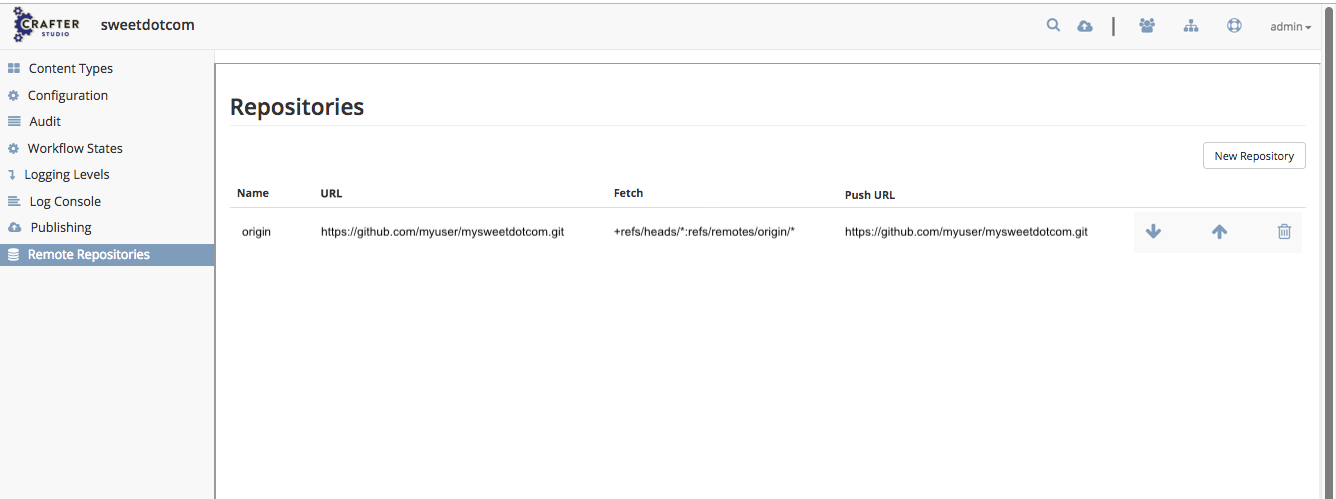
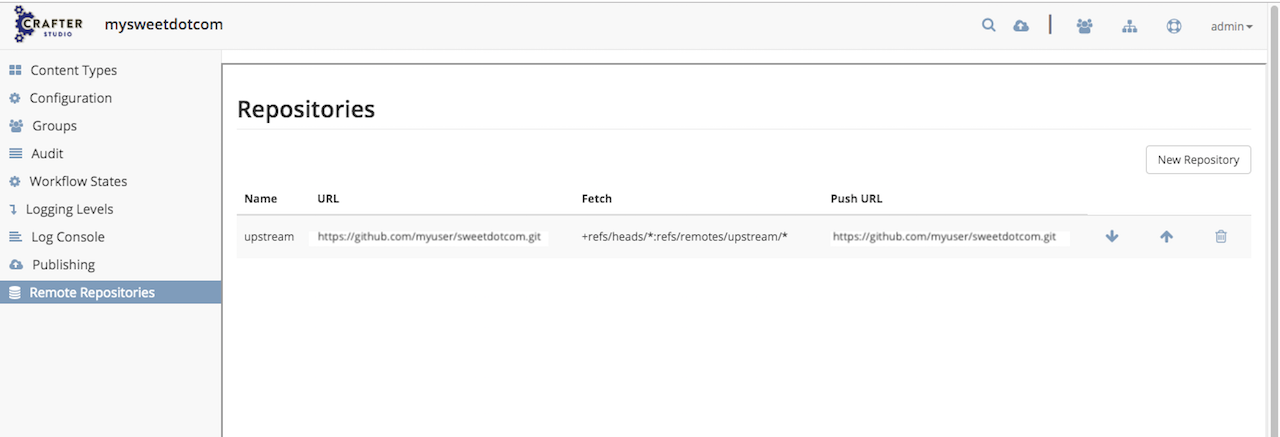
Add screens and text for Site Config in 3.0

diff --git a/source/site-administrators/navigating-site-config.rst b/source/site-administrators/navigating-site-config.rst
@@ -1,0 +1,142 @@
+.. index:: Navigating Site Config
+
+.. _navigating-site-config:
+
+======================
+Navigating Site Config
+======================
+
+In this section, we discuss the available modules in the |siteConfig| **Sidebar** from any of the available out-of-the-box blueprints.  The modules available in the Site Config Sidebar can be configured by following :ref:`site-config-tools`
+
+To get to |siteConfig|, click on **Sidebar** at the top left of your browser, if it's not yet open.
+
+.. image:: /_static/images/site-admin/open-sidebar.png
+    :alt: Site Admin - Open Sidebar
+    :align: center
+    :width: 45%
+
+Once the **Sidebar** is open, click on |siteConfig|
+
+.. image:: /_static/images/site-admin/open-site-config.png
+    :alt: Site Admin - Click on Site Config
+    :align: center
+
+Here are the modules you can access from |siteConfig|
+
+.. image:: /_static/images/site-admin/site-config-menu.png
+    :alt: Site Admin - Site Config Modules
+    :align: center
+
+-------------
+Content Types
+-------------
+Content Types contains the following:
+
+* Model: The content pieces that will be captured from the content authors for the page or component
+* View: The view template that will render the content, typically to HTML markup
+* Controller: The controller that handles the incoming request for the page or component
+
+The Content Types module under **Site Config** allows the user to view existing content types and to create new content types
+
+.. image:: /_static/images/site-admin/site-config-content-types.png
+    :alt: Site Admin - Site Config Content Types
+    :align: center
+
+For more information on content modeling and content types, see :ref:`content-modeling` in the Developer section
+
+-------------
+Configuration
+-------------
+
+Configuration allows the user to configure the different settings in Crafter CMS for the site.
+
+.. image:: /_static/images/site-admin/site-config-configuration.png
+    :alt: Site Admin - Site Config Configuration
+    :align: center
+
+For more information on what settings can be configured, see :ref:`configuration`
+
+------
+Groups
+------
+
+Groups allows the user to administrate (add/remove users to a group, add/remove group, etc. ), the groups in the site created on Crafter CMS.
+
+.. image:: /_static/images/site-admin/site-config-groups.png
+    :alt: Site Admin - Site Config Groups
+    :align: center
+
+For more information on groups see :ref:`groups-management`
+
+-----
+Audit
+-----
+
+Audit logs displays the date, time, user and action performed to content in the site:
+
+.. image:: /_static/images/site-admin/site-config-audit.png
+    :alt: Site Admin - Site Config Audit
+    :align: center
+
+See :ref:`studio-logging` for some more information on viewing logs.
+
+---------------
+Workflow States
+---------------
+
+Workflow States allows the user to manually set the workflow state of every file in the site.
+
+.. image:: /_static/images/site-admin/site-config-workflow-states.jpg
+    :alt: Site Admin - Site Config Workflow States
+    :align: center
+
+For more details on manually setting workflow states, see :ref:`setting-workflow-states`
+
+--------------
+Logging Levels
+--------------
+
+Logging Levels allows the user to temporarily change the logging levels for specific classes in Crafter CMS
+
+.. image:: /_static/images/site-admin/site-config-logging-levels.png
+    :alt: Site Admin - Site Config Logging Levels
+    :align: center
+
+See :ref:`override-logging-levels` and :ref:`studio-log-console` for more information on logging levels
+
+-----------
+Log Console
+-----------
+
+The **Log Console** allows the user to view messages depending on what log levels and what Java packages have been set for tracking.
+
+.. image:: /_static/images/site-admin/site-config-log-console.png
+    :alt: Site Admin - Site Config Log Console
+    :align: center
+
+See :ref:`studio-log-console` for some more information on viewing logs.
+
+----------
+Publishing
+----------
+
+The **Publishing** module under **Site Config** allows the user to view the publishing status, perform a bulk publish or to publish content using commit ID(s)
+
+.. image:: /_static/images/site-admin/site-config-publishing.png
+    :alt: Site Admin - Site Config Publishing
+    :align: center
+
+For more information on Publishing, see :ref:`publishing-and-status`
+
+-------------------
+Remote Repositories
+-------------------
+
+The **Remote Repositories** under **Site Config** allows the user to view remote repositories linked to the site and options to pull and push to the listed remote repositories.  It also allows the user to add a remote repository to the site.
+
+.. image:: /_static/images/site-admin/site-config-remote-repositories.png
+    :alt: Site Admin - Site Config Remote Repositories
+    :align: center
+
+For more information on Remote Repositories under |siteConfig|, see :ref:`remote-repositories`
+

diff --git a/source/site-administrators/setting-workflow-states.rst b/source/site-administrators/setting-workflow-states.rst
@@ -1,0 +1,61 @@
+:orphan:
+
+.. document does not appear in any toctree, this file is referenced
+   use :orphan: File-wide metadata option to get rid of WARNING: document isn't included in any toctree for now
+
+
+.. index:: Setting Workflow States
+
+.. _setting-workflow-states:
+
+=======================
+Setting Workflow States
+=======================
+
+There are times when a file/item in your site gets in a state that you would want to manually correct.  Workflow States allows the user to manually set the workflow state of every file in the site.
+
+To manually set the workflow state of a file in your site, find the file/s you'd like to change the workflow state and put a checkmark on the box next to it.  Towards the top of your browser, right next to your site name, click on **Set State**
+
+.. image:: /_static/images/site-admin/site-config-workflow-states.jpg
+    :alt: Site Admin - Site Config Set Workflow States
+    :align: center
+
+A dialog will launch prompting you to select the state you would like to set your selection to, by clicking on the dropdown box
+
+.. image:: /_static/images/site-admin/site-config-select-state-dialog.png
+    :alt: Site Admin - Site Config Select Workflow State Dialog
+    :align: center
+
+Select the desired state from the dropdown box and click on the **Set States** button
+
+.. image:: /_static/images/site-admin/site-config-avail-workflow-state.png
+    :alt: Site Admin - Site Config Available Workflow States
+    :align: center
+
+Here are the available workflow states:
+
+    * NEW_UNPUBLISHED_LOCKED: "New Unpublished Locked"
+    * NEW_UNPUBLISHED_UNLOCKED: "New Unpublished Unlocked"
+    * NEW_SUBMITTED_WITH_WF_SCHEDULED: "New Submitted with Workflow Scheduled"
+    * NEW_SUBMITTED_WITH_WF_SCHEDULED_LOCKED: "New Submitted with Workflow Scheduled Locked"
+    * NEW_SUBMITTED_WITH_WF_UNSCHEDULED: "New Submitted with Workflow Unscheduled"
+    * NEW_SUBMITTED_WITH_WF_UNSCHEDULED_LOCKED: "New Submitted with Workflow Unscheduled Locked"
+    * NEW_SUBMITTED_NO_WF_SCHEDULED: "New Submitted without Workflow Scheduled"
+    * NEW_SUBMITTED_NO_WF_SCHEDULED_LOCKED: "New Submitted without Workflow Scheduled Locked"
+    * NEW_SUBMITTED_NO_WF_UNSCHEDULED: "New Submitted without Workflow Unscheduled"
+    * NEW_PUBLISHING_FAILED: "New Publishing Failed"
+    * NEW_DELETED: "New Deleted"
+    * EXISTING_UNEDITED_LOCKED: "Existing Unedited Locked"
+    * EXISTING_UNEDITED_UNLOCKED: "Existing Unedited Unlocked"
+    * EXISTING_EDITED_LOCKED: "Existing Edited Locked"
+    * EXISTING_EDITED_UNLOCKED: "Existing Edited Unlocked"
+    * EXISTING_SUBMITTED_WITH_WF_SCHEDULED: "Existing Submitted with Workflow Scheduled"
+    * EXISTING_SUBMITTED_WITH_WF_SCHEDULED_LOCKED: "Existing Submitted with Workflow Scheduled Locked"
+    * EXISTING_SUBMITTED_WITH_WF_UNSCHEDULED: "Existing Submitted with Workflow Unscheduled"
+    * EXISTING_SUBMITTED_WITH_WF_UNSCHEDULED_LOCKED: "Existing Submitted with Workflow Unscheduled Locked"
+    * EXISTING_SUBMITTED_NO_WF_SCHEDULED: "Existing Submitted without Workflow Scheduled"
+    * EXISTING_SUBMITTED_NO_WF_SCHEDULED_LOCKED: "Existing Submitted without Workflow Scheduled Locked"
+    * EXISTING_SUBMITTED_NO_WF_UNSCHEDULED: "Existing Submitted without Workflow Unscheduled"
+    * EXISTING_PUBLISHING_FAILED: "Existing Publishing Failed"
+    * EXISTING_DELETED: "Existing Deleted"
+

diff --git a/source/site-administrators/publishing-and-status.rst b/source/site-administrators/publishing-and-status.rst
@@ -1,0 +1,84 @@
+:orphan:
+
+.. document does not appear in any toctree, this file is referenced
+   use :orphan: File-wide metadata option to get rid of WARNING: document isn't included in any toctree for now
+
+.. index:: Publishing and Status, Bulk Publish, Publish by Commit Id
+
+.. _publishing-and-status:
+
+=====================
+Publishing and Status
+=====================
+
+The **Publishing** under |siteConfig| allows the user to view the publishing status, perform a bulk publish and to publish commits from sandbox repository by commit id.
+
+------
+Status
+------
+
+The **Status** tab allows the user to view the publishing status, such as the following:
+
+- Last successful publish was for item: {item_path} on {date}
+- Currently publishing item: {item_path} on {date}
+- Stopped while trying to publish item: {item_path} on {date}
+- User {username} stopped the site on {date}
+
+It also allows the user to **Start** or **Stop** Studio publishing
+
+.. image:: /_static/images/site-admin/site-config-publish-status.png
+    :alt: Site Config Publishing - Status
+	:align: center
+
+
+---------------
+Bulk Publishing
+---------------
+
+The **Bulk Publishing** tab allows the user to publish multiple items under the specified path.  For example, using the Website Editorial blueprint, to publish all the articles in the year 2017, in the **Path to Publish** field, enter ``/site/website/articles/2017``.  To publish everything in your site, the user will enter ``/`` in the **Path to Publish** field
+
+.. image:: /_static/images/site-admin/site-config-publish-bulk.png
+    :alt: Site Config Publishing - Bulk Publishing
+	:align: center
+
+-----------------------
+Publish by Commit ID(s)
+-----------------------
+
+Crafter Studio also allows the user to publish commits from sandbox repository by commit id.
+
+.. image:: /_static/images/site-admin/site-config-publish-commit-id.png
+    :alt: Site Config Publishing - Publish by Commit ID(s)
+	:align: center
+
+To publish by commit id, let's use a site created using the Website Editorial blueprint and follow the steps below:
+
+- Edit the Home page (/site/website/index.xm) from the command line or anywhere other than Studio
+- From the command line, commit your changes
+
+  .. code-block:: guess
+
+     $ cd crafter-authoring/data/repos/sites/mysite/sandbox/site/website
+     $ git add .
+     $ git commit
+
+- Get the commit id after doing the above step
+
+  .. code-block:: guess
+
+     $ git log
+     commit f47c9a5bae4184e7b5ff2cb03b90b8ff86adec37 (HEAD -> master)
+     Author: myuser <myuser@example.com>
+     Date:   Fri Mar 15 10:09:57 2019 -0400
+
+         edited home page outside of studio
+
+     commit 1121d1b90d7b3131025932b6a0f0269d918caa11
+     Author: admin admin <evaladmin@example.com>
+     Date:   Fri Mar 15 09:31:57 2019 -0400
+
+  The commit id we want to publish by commit id is ``f47c9a5bae4184e7b5ff2cb03b90b8ff86adec37``
+
+- Go back to Studio and click on |siteConfig| -> Publishing
+- Click on the ``Publish by Commit ID(s)`` tab
+- Paste the commit id from the step where we got the commit id, then click on the ``Publish`` button

diff --git a/source/site-administrators/remote-repositories.rst b/source/site-administrators/remote-repositories.rst
@@ -1,0 +1,62 @@
+:orphan:
+
+.. document does not appear in any toctree, this file is referenced
+   use :orphan: File-wide metadata option to get rid of WARNING: document isn't included in any toctree for now
+
+.. index:: Remote Repositories
+
+.. _remote-repositories:
+
+===================
+Remote Repositories
+===================
+
+The **Remote Repositories** under |siteConfig| allows the user to view remote repositories linked to the site and options to pull and push to the listed remote repositories.  It also allows the user to add a remote repository to the site.
+
+Below, we have a site **mysweetdotcom** with a link to a remote repository in GitHub:
+
+.. image:: /_static/images/developer/craftercms-github-remotes.png
+    :alt: Developer How-Tos - Pushing and Pulling from the Remote Repository
+    :width: 100 %
+    :align: center
+
+----------------
+Add a Repository
+----------------
+To add a remote repository for your site, click on the **New Repository** button.  A **Create Repository** dialog will open where you'll need to fill in the required information then click on the **Create** button and you should see the new repository added in the **Repositories**
+
+.. image:: /_static/images/site-admin/site-config-add-repo.png
+    :alt: Remote Repositories - New Repository
+	:align: center
+
+--------------------
+Pull from Repository
+--------------------
+
+To get updates from the remote repositories, click on the down arrow next to the remote repository you would like to pull changes from
+
+.. image:: /_static/images/site-admin/site-config-pull-from-remote.png
+    :alt: Remote Repositories - Pull from Remote Repository
+	:align: center
+
+In the **Pull** dialog, select the branch in the remote repository you'd like to pull changes from
+
+.. image:: /_static/images/site-admin/site-config-pull-from-remote-options.png
+    :alt: Remote Repositories - Pull from Remote Repository Options
+    :align: center
+
+------------------
+Push to Repository
+------------------
+
+To push your changes in Studio to a remote repository, click on the up arrow next to the remote repository you would like to push changes to
+
+.. image:: /_static/images/site-admin/site-config-push-to-remote.png
+    :alt: Remote Repositories - Push to Remote Repository
+	:align: center
+
+In the **Push** dialog, select the branch in the remote repository you'd like to push changes to
+
+.. image:: /_static/images/site-admin/site-config-push-to-remote-options.png
+    :alt: Remote Repositories - Push to Remote Repository
+	:align: center

diff --git a/source/site-administrators/studio-logging.rst b/source/site-administrators/studio-logging.rst
@@ -28,10 +28,10 @@ To view logs in Crafter Studio, click on |siteConfig| from the **Sidebar**, then
 
 There are 4 log levels defined in Crafter CMS.  These levels determine what messages will be logged and displayed in the **Logging Console**.  Below are the 4 log levels available from the lowest to the highest:
 
-    - debug: displays things useful for debugging
-    - info: displays informational messages like progress of the application, etc
-    - warn: displays potentially harmful situations that might cause problems
-    - error: displays anything that may be fatal to the operation/causes a problem
+    - **debug**: displays things useful for debugging
+    - **info**: displays informational messages like progress of the application, etc
+    - **warn**: displays potentially harmful situations that might cause problems
+    - **error**: displays anything that may be fatal to the operation/causes a problem
 
 The lower your logging levels are set, the more verbose your logs will be.
 
@@ -41,7 +41,7 @@ The lower your logging levels are set, the more verbose your logs will be.
 
 |
 
-After setting up the log levels desired, we'll now go to the **Log Console** to start viewing the logs.  From the **Sidebar**, click on |siteConfig| -> **Log Console**.  To start viewing the logs, click on **Play/Pause** at the top to start viewing the log files
+After setting up the log levels desired, we'll now go to the **Log Console** to start viewing the logs.  From the **Sidebar**, click on |siteConfig| -> **Log Console**.  To start viewing the logs, click on **Play/Pause** icon at the top to start viewing the log files
 
 .. figure:: /_static/images/site-admin/logs-log-console.png
     :alt: Crafter Studio Log Console

diff --git a/source/site-administrators/index.rst b/source/site-administrators/index.rst
@@ -46,6 +46,7 @@ Here are the topics covered in this section:
 .. toctree::
    :maxdepth: 2
 
+   navigating-site-config
    users-groups-management
    configuration
    studio-logging

diff --git a/source/site-administrators/studio/users-groups/groups-management.rst b/source/site-administrators/studio/users-groups/groups-management.rst
@@ -1,3 +1,7 @@
+.. index:: Groups Management, Groups
+
+.. _groups-management:
+
 =================
 Groups Management
 =================

diff --git a/source/site-administrators/configuration.rst b/source/site-administrators/configuration.rst
@@ -1,3 +1,6 @@
+.. index:: Site Configuration
+
+.. _configuration:
 
 =============
 Configuration
